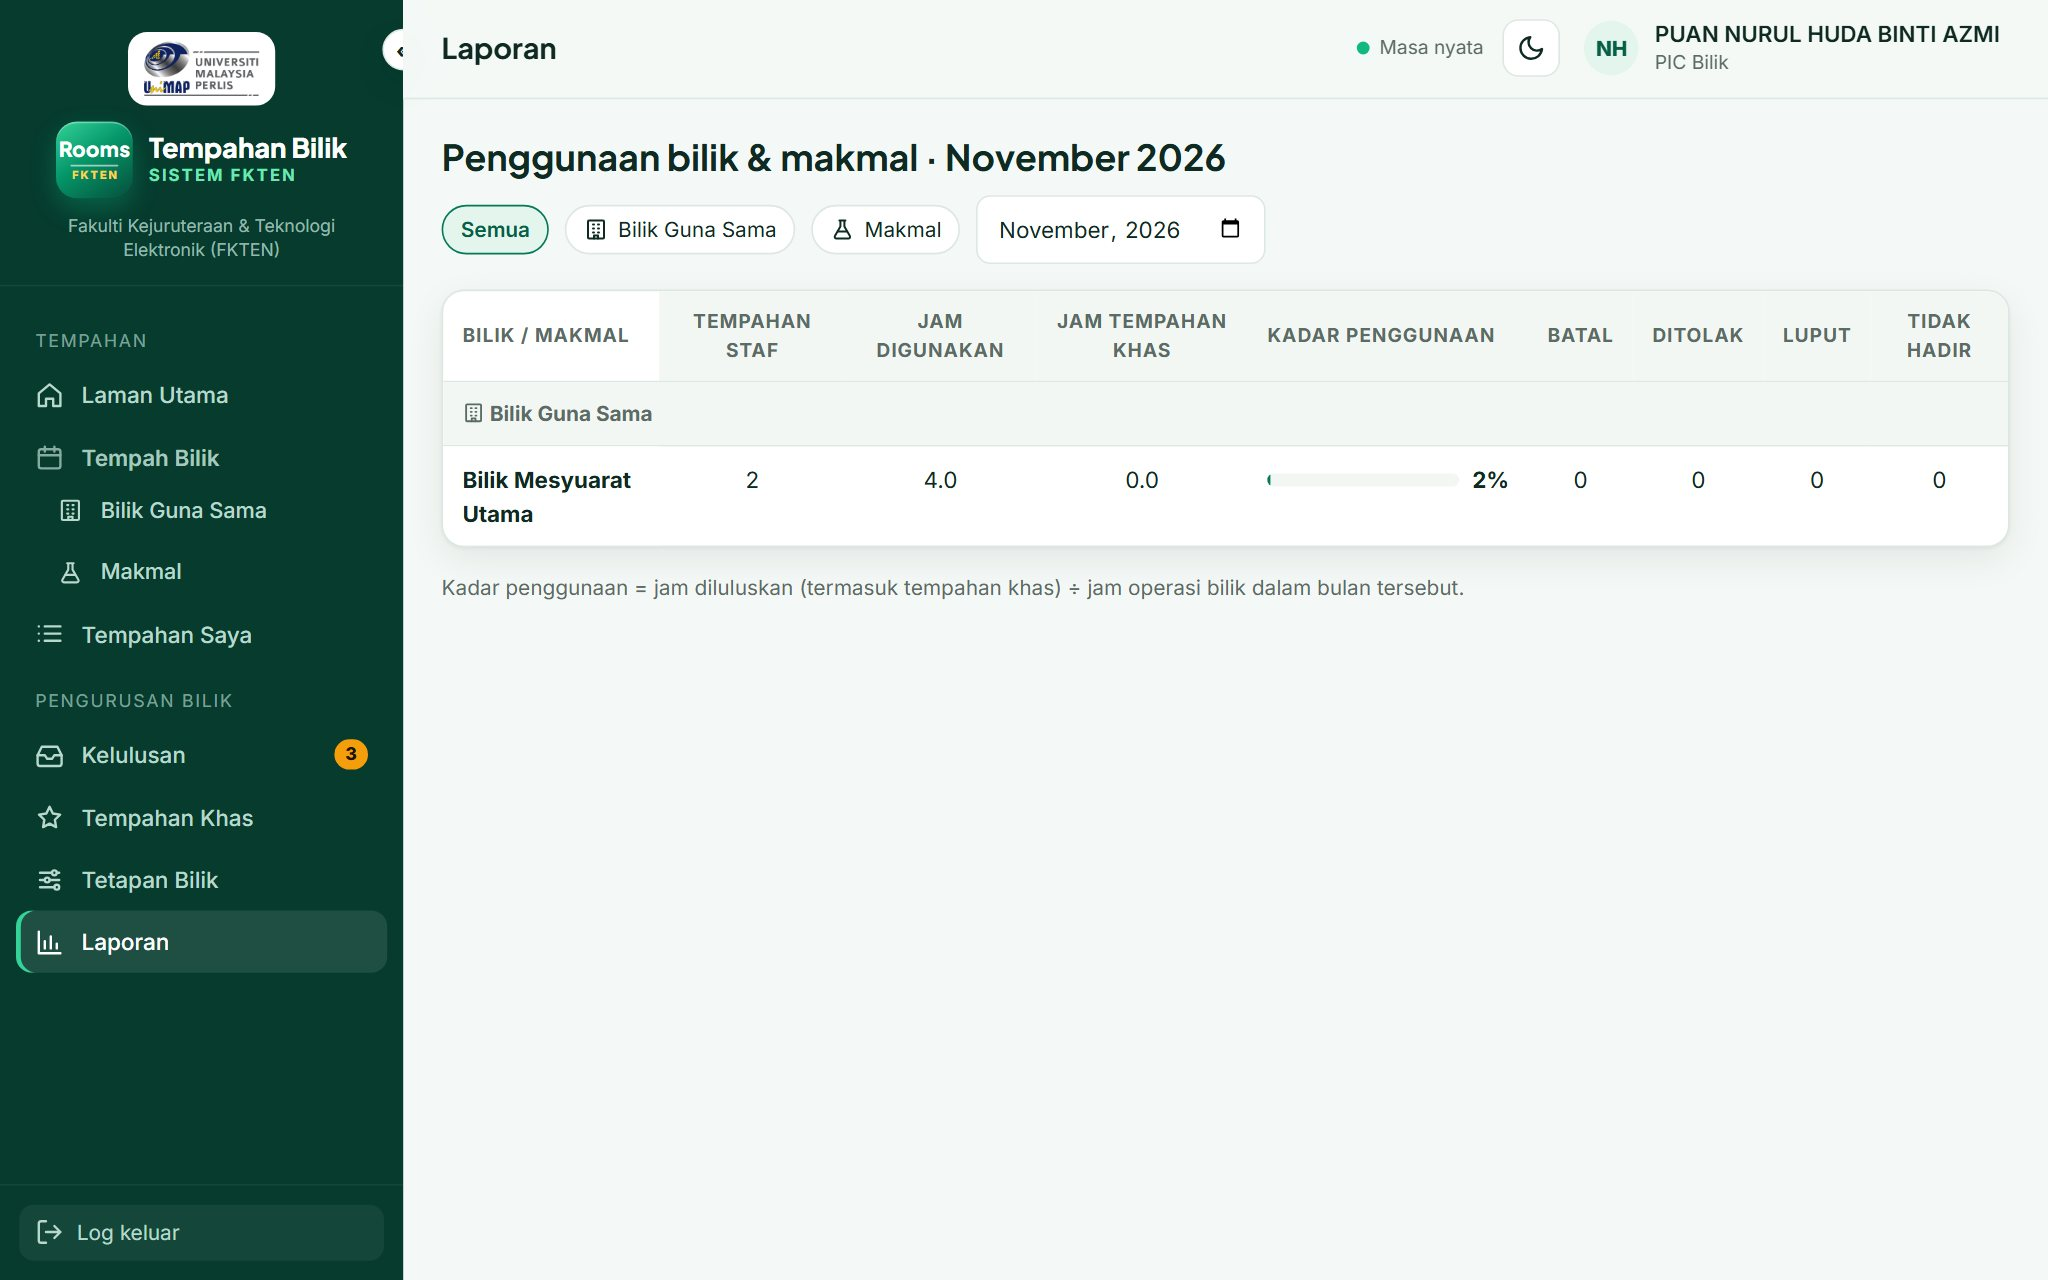
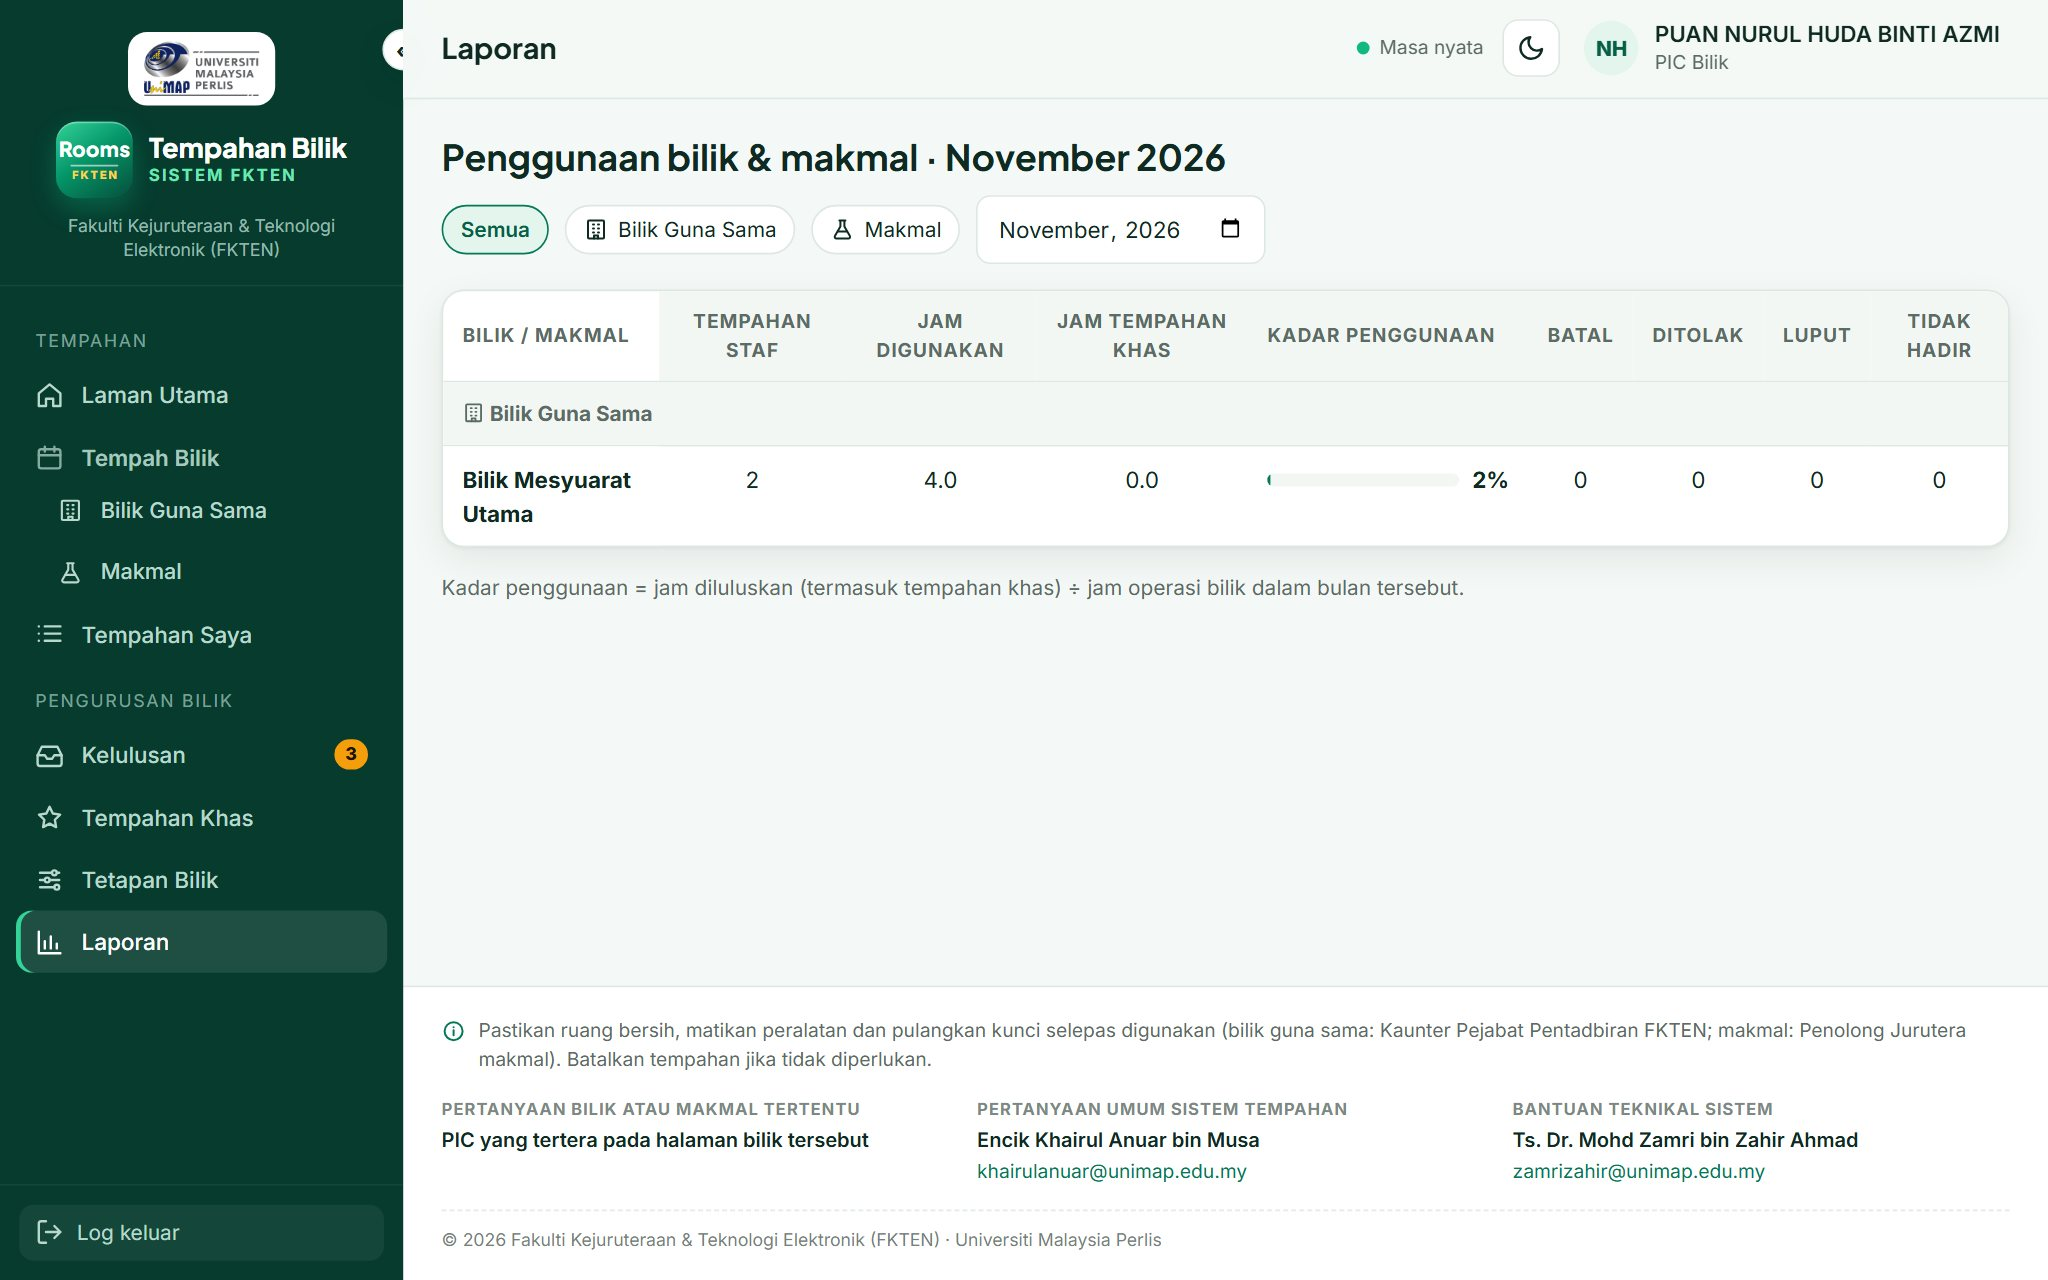
Update manual: new layout screenshots, email examples (desktop + phone)
Retook all screenshots after the centred layout, footer and steps redesign.
New slide 'Emel yang anda terima' with the approved email at laptop and phone size.
Example booking title changed to 'Mesyuarat Jabatan Elektronik'.

Changed region(s): [[0.2188, 0.7812, 0.9688, 0.9062], [0.4688, 0.8438, 0.6562, 0.9375], [0.75, 0.8438, 0.9062, 0.9375]]

diff --git a/index.html b/index.html
@@ -86,6 +86,10 @@
   .frame:hover .zoom { opacity: 1; }
   .frames2 { display: grid; grid-template-columns: 1fr 1fr; gap: 14px; }
   .mailshot img { max-height: 52vh; object-fit: cover; object-position: top; }
+  .mailpair { display: grid; grid-template-columns: minmax(0, 1fr) auto; gap: 22px; align-items: start; }
+  .mailpair .frame img { max-height: 56vh; object-fit: cover; object-position: top; }
+  .mailpair .phone { width: 190px; }
+  .mailpair .phone img { max-height: 52vh; object-fit: cover; object-position: top; }
   .frames2 .frame img { max-height: 46vh; object-fit: cover; object-position: top; }
   .phones { display: flex; gap: 22px; justify-content: center; flex-wrap: wrap; }
   .phone { width: 250px; border-radius: 34px; border: 9px solid #04130e; overflow: hidden; box-shadow: var(--shadow); cursor: zoom-in; }
@@ -198,6 +202,7 @@
     .cover .unimap { position: static; display: inline-block; margin-bottom: 8px; }
     table.t { font-size: .84rem; } table.t th, table.t td { padding: 9px 10px; }
     .phone { width: 200px; }
+    .mailpair { grid-template-columns: 1fr; justify-items: center; }
   }
   @media (prefers-reduced-motion: reduce) { .slide { transition: none; } }
   @media print {
@@ -469,10 +474,30 @@
     <div class="inner">
       <div class="kicker"><span class="dot"></span>Membuat tempahan</div>
       <h2>Hantar &amp; tunggu kelulusan</h2>
-      <p class="lead">Semasa sistem menyimpan, skrin dikaburkan dengan mesej <b>"Sila tunggu. Jangan tutup atau muat semula halaman ini."</b> Selepas berjaya, nombor rujukan dipaparkan dan emel pengesahan dihantar kepada anda dan PIC.</p>
+      <p class="lead">Semasa sistem menyimpan, skrin dikaburkan dengan mesej <b>"Sila tunggu. Jangan tutup atau muat semula halaman ini."</b> Selepas berjaya, nombor rujukan dipaparkan dan emel pengesahan dihantar kepada anda dan PIC (contoh emel di slaid seterusnya).</p>
       <div class="frames2" style="margin-top:22px">
         <figure class="frame"><div class="bar"><span></span><span></span><span></span></div><img src="assets/shots/08-wait.jpg" alt="Sila tunggu" loading="lazy"><span class="zoom">Klik untuk besarkan</span></figure>
         <figure class="frame"><div class="bar"><span></span><span></span><span></span></div><img src="assets/shots/10-sent.jpg" alt="Tempahan dihantar" loading="lazy"><span class="zoom">Klik untuk besarkan</span></figure>
+      </div>
+    </div>
+  </section>
+
+  <section class="slide" data-title="Emel kepada anda" data-group="Membuat tempahan">
+    <div class="inner split">
+      <div class="txt">
+        <div class="kicker"><span class="dot"></span>Membuat tempahan</div>
+        <h2>Emel yang anda terima</h2>
+        <ul class="ticks">
+          <li><b>Diterima</b>: sejurus selepas <span class="ui">Hantar</span>, bersama nombor rujukan (cth. TBF-2026-00031).</li>
+          <li><b>Diluluskan</b>: lokasi, tempat ambil kunci, nama &amp; telefon PIC; acara masuk ke Google Calendar anda.</li>
+          <li><b>Ditolak</b> atau <b>dibatalkan oleh PIC</b>: bersama sebab.</li>
+          <li><b>Peringatan</b> sehari sebelum tempahan.</li>
+        </ul>
+        <div class="tip">Sebut <b>nombor rujukan</b> apabila menghubungi PIC. Emel juga mudah dibaca di telefon. Tidak menerima emel? Semak folder Spam.</div>
+      </div>
+      <div class="mailpair">
+        <figure class="frame"><div class="bar"><span></span><span></span><span></span></div><img src="assets/shots/36-email-approved.jpg" alt="Contoh emel tempahan diluluskan" loading="lazy"><span class="zoom">Klik untuk besarkan</span></figure>
+        <div class="phone"><img src="assets/shots/37-email-phone.jpg" alt="Emel diluluskan di telefon" loading="lazy"></div>
       </div>
     </div>
   </section>
